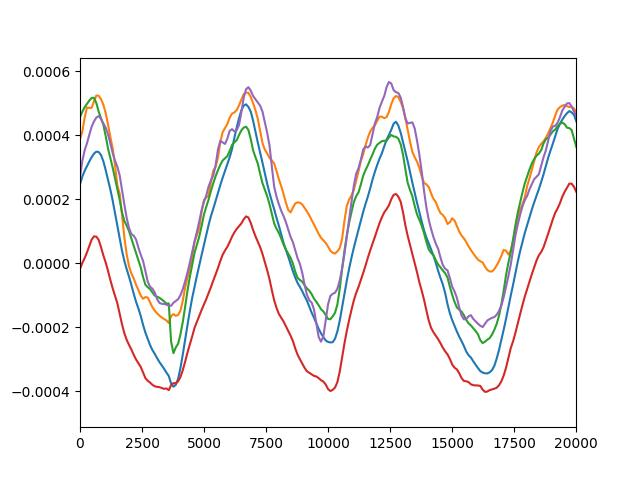
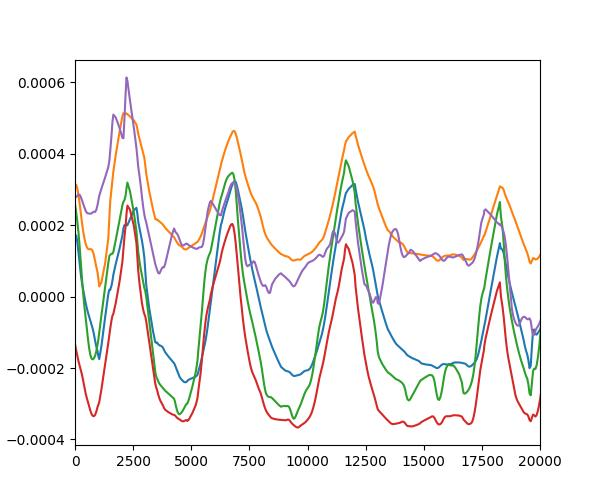
Confusion matrix UI support

diff --git a/model/model/train_model.py b/model/model/train_model.py
@@ -7,12 +7,13 @@ from .parse_features import parse_features_from_data
 from .brics_model import BRICSModel
 from .hyperparameters import *
 
+import matplotlib.pyplot as plt
 import numpy as np
 import torch
 from torch import nn, Tensor
 from torch.utils.data import TensorDataset, DataLoader
 
-def display_confusion_matrix(classes, preds):
+def display_confusion_matrix(classes, preds, accuracy, show=True):
     from sklearn.metrics import ConfusionMatrixDisplay
     import matplotlib.pyplot as plt
     cm = confusion_matrix(classes, preds)
@@ -20,8 +21,12 @@ def display_confusion_matrix(classes, preds):
     disp = ConfusionMatrixDisplay(confusion_matrix=cm)
     disp.plot(cmap="Blues")
 
-    plt.title("Confusion Matrix")
-    plt.show()
+    plt.title(f"Confusion Matrix, accuracy: {accuracy*100:.2f}%")
+    if show:
+        plt.show()
+    else:
+        plt.savefig("confusion_matrix.jpg")
+        plt.close()
 
     correct = (classes == preds)
 
@@ -110,6 +115,6 @@ def train_model():
         preds = torch.argmax(logits, dim=1)
         acc = (preds == labels).float().mean()
         print(f"Model accuracy is: {acc.item()}")
-        if acc.item() > 0.85:
-            display_confusion_matrix(labels, preds);
+        # if acc.item() > 0.85:
+        display_confusion_matrix(labels, preds, accuracy=acc, show=False)
     return model_data

diff --git a/main.py b/main.py
@@ -112,6 +112,11 @@ class MainWindow(QWidget):
         def train_and_load_model():
             self.model_data = train_model()
             self.result_label.setText(f"Model trained and loaded")
+            pixmap = QPixmap("confusion_matrix.jpg")   # path to your image
+            self.plot_label.clear()
+            self.plot_label.setPixmap(pixmap)
+            self.plot_label.repaint()
+
             reply = QMessageBox.question(
                 self,
                 "Confirm Action",